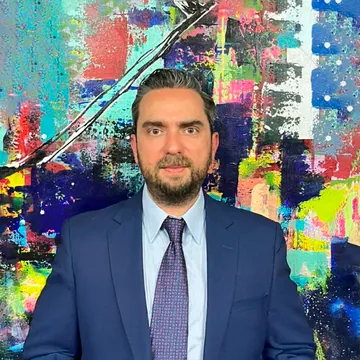
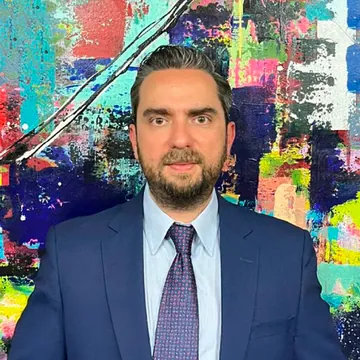
Show all four partners on the home page with evenly framed portraits
At the 16 October meeting the client asked for the four partners on the
home page, portraits "the same size", larger type in Socios, and no
personal data about the partners.

- Home Socios: the four partners from /team (including the founding
  partner in memoriam), in the /team order, four columns from lg and 2x2
  on phones. Role text is taken from /team. Names are 26-32px and
  roles 14-15px.
- Portraits: the four partner photos are re-cropped from the originals so
  the head takes the same share of the frame (about 41%) and the eyes sit
  at the same height (one third). Output is a 541px square, downscaled
  only and never enlarged, in natural colour. The 360/128 variants and the
  media manifest hashes are regenerated, the srcset descriptor is now
  541w, and the unused ss26/socio-*.webp copies are removed.
- /team cards, the profile's related-team list and the practice partner
  bar now have larger names and roles. The broken "text[NNpx]" classes
  in those spots are fixed.
- Personal data: the public team DTO always returns the firm's general
  email and switchboard number (none for the in memoriam partner) and
  never a LinkedIn URL. The vCard is built from that DTO. The Person
  JSON-LD gives the office as workLocation and no longer uses address,
  which reads as a home address.

Claude-Session: https://claude.ai/code/session_01JLi3psnBHv8p3iMLAhds96

diff --git a/client/src/components/home26/Sections26.tsx b/client/src/components/home26/Sections26.tsx
@@ -6,9 +6,6 @@ import fachada768 from "@assets/ss26/oficina/fachada-768.webp";
 import fachada1536 from "@assets/ss26/oficina/fachada-1536.webp";
 import salaJuntas768 from "@assets/ss26/oficina/sala-juntas-768.webp";
 import salaJuntas1536 from "@assets/ss26/oficina/sala-juntas-1536.webp";
-import socioSantosArce from "@assets/ss26/socio-enrique-hernan-santos-arce.webp";
-import socioSantosGuzman from "@assets/ss26/socio-enrique-hernan-santos-guzman.webp";
-import socioSaucedoMontemayor from "@assets/ss26/socio-mario-saucedo-montemayor.webp";
 import { isNamedOnTeamPage, fallbackToOriginalSrc, getTeamPhotoSrcSet } from "@/lib/teamPhotoSources";
 import { keepFirmName } from "@/lib/firmName";
 import { useOfficeLabel } from "@/lib/officeLabel";
@@ -63,19 +60,6 @@ const GAP_X = "xl:gap-x-[clamp(32px,6vw,96px)]";
    index.css). Sobre Azul Profundo se añade text-white. El manifiesto es la excepción: la
    única itálica del sitio. */
 const H2 = "ss-h2 mt-8";
-
-/* Retratos de socios, por slug de /team. El WebP de la portada (652 px) queda como src de
-   respaldo; el navegador elige del srcset de team_photos (360w y 652w, el de /team) según
-   el hueco: 112 px en teléfono, un tercio del contenedor desde sm (416 px a 1440, 424 máx.). */
-const socioPhotos: Record<string, string> = {
-  "enrique-santos-arce": socioSantosArce,
-  "enrique-santos-guzman": socioSantosGuzman,
-  "mario-saucedo-montemayor": socioSaucedoMontemayor,
-};
-const socioSrcSetProps = (slug: string) => {
-  const srcSet = getTeamPhotoSrcSet(`${import.meta.env.BASE_URL}team_photos/${slug}.png`);
-  return srcSet ? { srcSet, sizes: "(min-width: 1464px) 424px, (min-width: 640px) calc(30vw - 16px), 112px" } : {};
-};
 
 /* § 01 — La firma */
 export function Firma26({ lang }: { lang: Lang26 }) {
@@ -383,7 +367,18 @@ export function Socios26({ lang }: { lang: Lang26 }) {
   const liveHome = useCmsContent("home", home26);
   const t = liveHome[lang].socios;
   const { data: members = [], isError: teamError } = useQuery<TeamMember[]>({ queryKey: ["/api/team"] });
-  const people = teamError ? [] : members.filter(m => isNamedOnTeamPage(m) && (m.showOnHome ?? (m.isPartner && !/in memoriam/i.test(m.title)))).sort((a,b) => (a.order ?? 0) - (b.order ?? 0)).map(m => ({ name: m.name, photo: m.slug, image: m.imageUrl || "", role: lang === "es" ? m.titleEs : m.title }));
+  // Los cuatro socios de /team (incluido el socio fundador in memoriam), en el mismo orden
+  // ("order" del panel y luego nombre); showOnHome = false en el panel saca a alguien de la portada.
+  // El cargo, como en /team: titleEs en español, title en inglés, "(in memoriam)" sin partirse.
+  const people = teamError ? [] : members
+    .filter(m => m.isPartner && isNamedOnTeamPage(m) && m.showOnHome !== false)
+    .sort((a, b) => (a.order ?? 0) - (b.order ?? 0) || a.name.localeCompare(b.name))
+    .map(m => ({
+      name: m.name,
+      photo: m.slug,
+      image: m.imageUrl || "",
+      role: ((lang === "es" ? m.titleEs : m.title) || m.title || "").replace(/\((in)\s+(memoriam)\)/gi, "($1\u00a0$2)"),
+    }));
   return (
     <section
       id="socios"
@@ -410,36 +405,37 @@ export function Socios26({ lang }: { lang: Lang26 }) {
           </Reveal>
         </div>
 
-        {/* Teléfono: lista con retrato pequeño al lado del nombre; desde sm, tres columnas.
+        {/* Cuatro columnas desde lg y 2 × 2 en teléfono y tableta, como la rejilla de /team.
             La tarjeta es la de /team (Team.tsx renderPersonCard): enlace a la ficha del socio,
             el retrato se acerca al 1 % y el nombre se subraya al pasar el ratón o con el foco.
-            inline-link: fuera de la regla móvil de index.css que vuelve inline-flex todo <a>. */}
-        <ul className="mt-14 grid grid-cols-1 gap-x-6 gap-y-8 sm:grid-cols-3 sm:gap-y-12 lg:mt-16">
+            Los retratos de los cuatro están recortados con la misma escala de cabeza y los ojos a
+            la misma altura (attached_assets/team_photos). El nombre reserva dos líneas desde sm
+            para que los cargos queden alineados. inline-link: fuera de la regla móvil de index.css
+            que vuelve inline-flex todo <a>. */}
+        <ul className="mt-14 grid grid-cols-2 gap-x-4 gap-y-10 sm:gap-x-6 sm:gap-y-12 lg:mt-16 lg:grid-cols-4">
           {people.map((person, i) => (
             <Reveal as="li" key={person.name} delay={i * 0.08}>
               <Link href={`/team/${person.photo}`} className="inline-link group block">
-                <span className="grid grid-cols-[112px_1fr] items-end gap-x-5 sm:block">
-                  <span className="block overflow-hidden bg-ss-paper">
-                    {/* Fuente 652×652 (360 en teléfono) recortada a 4:5, en grises como todo
-                        retrato; alt vacío: el nombre ya es el texto del enlace */}
-                    <img
-                      src={person.image}
-                      {...(getTeamPhotoSrcSet(person.image) ? { srcSet: getTeamPhotoSrcSet(person.image), sizes: "(min-width: 640px) 30vw, 112px" } : {})}
-                      onError={fallbackToOriginalSrc}
-                      alt=""
-                      loading="lazy"
-                      decoding="async"
-                      width={652}
-                      height={652}
-                      className="ss-photo aspect-[4/5] h-auto w-full object-cover object-[50%_28%] transition-transform duration-700 [transition-timing-function:var(--ss-ease)] motion-safe:group-hover:scale-[1.01] motion-reduce:transform-none motion-reduce:transition-none"
-                    />
+                <span className="block overflow-hidden bg-ss-paper">
+                  {/* Fuente cuadrada recortada a 4:5 al centro; alt vacío: el nombre ya es el
+                      texto del enlace */}
+                  <img
+                    src={person.image}
+                    {...(getTeamPhotoSrcSet(person.image) ? { srcSet: getTeamPhotoSrcSet(person.image), sizes: "(min-width: 1464px) 330px, (min-width: 1024px) 23vw, 46vw" } : {})}
+                    onError={fallbackToOriginalSrc}
+                    alt=""
+                    loading="lazy"
+                    decoding="async"
+                    width={541}
+                    height={541}
+                    className="ss-photo aspect-[4/5] h-auto w-full object-cover object-center transition-transform duration-700 [transition-timing-function:var(--ss-ease)] motion-safe:group-hover:scale-[1.01] motion-reduce:transform-none motion-reduce:transition-none"
+                  />
+                </span>
+                <span className="mt-4 block sm:mt-5">
+                  <span className="ss-display block text-[21px] font-normal leading-[1.15] tracking-[-0.01em] text-ss-marino decoration-1 underline-offset-4 group-hover:underline group-focus-visible:underline min-h-[2.3em] sm:text-[clamp(26px,2.2vw,32px)]">
+                    {person.name}
                   </span>
-                  <span className="block sm:mt-5">
-                    <span className="ss-display block text-[clamp(24px,1.9vw,28px)] font-normal leading-[1.15] tracking-[-0.01em] text-ss-marino decoration-1 underline-offset-4 group-hover:underline group-focus-visible:underline">
-                      {person.name}
-                    </span>
-                    <span className="ss-label mt-3 block text-ss-medio">{person.role}</span>
-                  </span>
+                  <span className="ss-label mt-3 block text-[14px] text-ss-medio sm:text-[15px]">{person.role}</span>
                 </span>
               </Link>
             </Reveal>

diff --git a/client/src/pages/Team.tsx b/client/src/pages/Team.tsx
@@ -38,9 +38,11 @@ const CARD_PHOTO_SIZES = "(min-width: 1024px) 25vw, (min-width: 640px) 50vw, 112
 
 // Rejilla de tarjetas y letra del nombre, compartidas por la vista y su carga (misma altura).
 // Desde sm el nombre reserva dos líneas (interlineado 1.15 × 2): "Mario Saucedo Montemayor" pasa
-// a dos a 1024–1440 y su cargo quedaba más abajo que los de al lado.
+// a dos a 1024–1440 y su cargo quedaba más abajo que los de al lado. Nombre de 26–32 px y cargo de
+// 14–15 px: en la junta del 16-10-2026 el cliente vio chica la letra de Socios.
 const CARD_GRID = "grid grid-cols-1 gap-x-6 gap-y-8 sm:grid-cols-2 sm:gap-y-12 lg:grid-cols-4";
-const CARD_NAME = "ss-display block text-[clamp(24px,1.9vw,28px)] font-normal leading-[1.15] tracking-[-0.01em] sm:min-h-[2.3em]";
+const CARD_ROLE = "ss-label mt-3 block text-[14px] text-ss-medio sm:text-[15px]";
+const CARD_NAME = "ss-display block text-[clamp(26px,2.2vw,32px)] font-normal leading-[1.15] tracking-[-0.01em] sm:min-h-[2.3em]";
 
 export default function Team() {
   const { teamMosaic: equipoPhotos } = useCmsMedia();
@@ -239,7 +241,7 @@ export default function Team() {
   const getInitials = (name: string) =>
     name.split(' ').map(n => n[0]).join('').slice(0, 2).toUpperCase();
 
-  // Retratos: WebP con srcset (360w y 652w); si la variante falla, vuelve al original
+  // Retratos: WebP con srcset (360w y 541w); si la variante falla, vuelve al original
   const photoSrcSetProps = (member: TeamMember) => {
     const srcSet = getTeamPhotoSrcSet(member.imageUrl);
     return srcSet ? { srcSet, sizes: CARD_PHOTO_SIZES } : {};
@@ -257,7 +259,7 @@ export default function Team() {
     const role = language === "es" ? (member.titleEs || member.title || fallback) : (member.title || fallback);
     const text = role.replace(/\((in)\s+(memoriam)\)/gi, "($1\u00a0$2)");
     return (
-      <span className="ss-label mt-3 block text-ss-medio">
+      <span className={CARD_ROLE}>
         {englishFallback ? <bdi lang="en" dir="ltr">{text}</bdi> : text}
       </span>
     );
@@ -287,9 +289,9 @@ export default function Team() {
                 alt=""
                 loading={eager ? "eager" : "lazy"}
                 decoding="async"
-                width={652}
-                height={652}
-                className="ss-photo absolute inset-0 h-full w-full object-cover object-[50%_28%] transition-transform duration-700 [transition-timing-function:var(--ss-ease)] motion-safe:group-hover:scale-[1.01] motion-reduce:transform-none motion-reduce:transition-none"
+                width={541}
+                height={541}
+                className="ss-photo absolute inset-0 h-full w-full object-cover object-center transition-transform duration-700 [transition-timing-function:var(--ss-ease)] motion-safe:group-hover:scale-[1.01] motion-reduce:transform-none motion-reduce:transition-none"
                 onError={handlePhotoError}
               />
             )}
@@ -371,7 +373,7 @@ export default function Team() {
                     <div className={CARD_NAME}>
                       <Skeleton className="inline-block h-[0.8em] w-4/5 bg-ss-rule align-middle" />
                     </div>
-                    <div className="ss-label mt-3">
+                    <div className={CARD_ROLE}>
                       <Skeleton className="inline-block h-[0.8em] w-1/2 bg-ss-rule align-middle" />
                     </div>
                   </div>

diff --git a/shared/teamVisibility.ts b/shared/teamVisibility.ts
@@ -52,7 +52,8 @@ const PUBLIC_MEMBER_FIELDS = [
   "phone",
 ] as const satisfies readonly (keyof TeamMember)[];
 
-// Ficha (/api/team/:slug) y autores de una nota: además, biografía, LinkedIn y las secciones
+// Ficha (/api/team/:slug) y autores de una nota: además, biografía (LinkedIn va siempre vacío,
+// ver institutionalContact) y las secciones
 // de la ficha que se pintan si el registro las trae. Sin representativeMatters: los asuntos
 // no se publican (los de la importación eran de plantilla) y la ficha no los pinta sin dato.
 const PUBLIC_PROFILE_FIELDS = [
@@ -78,10 +79,27 @@ function pickFields<K extends keyof TeamMember>(member: Partial<TeamMember>, fie
   return out as Pick<TeamMember, K>;
 }
 
+// Datos personales (junta del 16-10-2026, Gabriel): de los socios solo sale lo institucional.
+// El correo y el teléfono públicos son siempre los generales de la firma (info@ y conmutador),
+// aunque el panel guarde un celular o un correo propio; el in memoriam, sin contacto. Sin
+// LinkedIn ni otras redes personales. Lo usan /api/team*, la vCard, el JSON-LD (que lee la
+// ficha pública) y el build estático.
+export const FIRM_PUBLIC_EMAIL = "info@santossaucedo.com";
+export const FIRM_PUBLIC_PHONE = "+52 81 8335 2086";
+
+function institutionalContact<T extends { email: string | null; phone: string | null; title: string }>(out: T): T {
+  const inMemoriam = /in memoriam/i.test(out.title ?? "");
+  out.email = out.email && !inMemoriam ? FIRM_PUBLIC_EMAIL : null;
+  out.phone = out.phone && !inMemoriam ? FIRM_PUBLIC_PHONE : null;
+  return out;
+}
+
 export function toPublicTeamMember(member: Partial<TeamMember>): PublicTeamMember {
-  return pickFields(member, PUBLIC_MEMBER_FIELDS);
+  return institutionalContact(pickFields(member, PUBLIC_MEMBER_FIELDS));
 }
 
 export function toPublicTeamProfile(member: Partial<TeamMember>): PublicTeamProfile {
-  return pickFields(member, PUBLIC_PROFILE_FIELDS);
+  const out = institutionalContact(pickFields(member, PUBLIC_PROFILE_FIELDS));
+  out.linkedinUrl = null;
+  return out;
 }

diff --git a/client/src/pages/TeamMemberDetail.tsx b/client/src/pages/TeamMemberDetail.tsx
@@ -184,11 +184,12 @@ function RelatedTeamMemberCard({
         </span>
         <div className="flex-1 min-w-0">
           {/* Nombre y cargo completos: si no caben, pasan a una segunda línea (antes "Mario Saucedo M…") */}
-          <p className="font-heading text-[19px] leading-[1.2] tracking-[-0.01em] text-ss-marino group-hover:underline group-hover:underline-offset-4 group-hover:decoration-1">
+          {/* 22 px (antes la clase "text[19px]" sin guion no aplicaba y quedaba en 16–18 px) */}
+          <p className="font-heading text-[22px] leading-[1.2] tracking-[-0.01em] text-ss-marino group-hover:underline group-hover:underline-offset-4 group-hover:decoration-1">
             {relatedMember.name}
           </p>
           {/* Sin traducción, el cargo en inglés va en <bdi>: aislado del árabe sin cambiar la alineación */}
-          <p className="ss-label text-ss-medio mt-1">
+          <p className="ss-label mt-1.5 text-[14px] text-ss-medio">
             <LocalizedRun value={displayTitle} />
           </p>
         </div>
@@ -1510,7 +1511,7 @@ export default function TeamMemberDetail() {
                     <>
                       <img
                         src={member.imageUrl}
-                        // WebP de 360/652 px en vez del PNG de 0,5–1 MB; si la variante no
+                        // WebP de 360/541 px en vez del PNG de 0,4–0,6 MB; si la variante no
                         // existe donde se sirven las fotos, onError vuelve al original (src)
                         {...(profilePhotoSrcSet ? { srcSet: profilePhotoSrcSet, sizes: PROFILE_PHOTO_SIZES } : {})}
                         // alt vacío: el nombre ya está en el h1 de al lado (antes se leía dos veces)

diff --git a/client/src/lib/teamPhotoSources.ts b/client/src/lib/teamPhotoSources.ts
@@ -11,7 +11,11 @@ export { CONFIRMED_PARTNER_SLUGS, isOfCounselMember, isNamedOnTeamPage } from "@
 // variante vive al lado de su original. Los originales
 // se conservan: son el src de respaldo si una variante no existe donde se sirven las fotos.
 
-// Socios con <slug>-652.webp y <slug>-360.webp (los PNG de 652 px pesan 0,5–1 MB)
+// Socios con <slug>-652.webp y <slug>-360.webp (el PNG pesa 0,4–0,6 MB). Los cuatro retratos se
+// recortaron de nuevo (22-10-2026) con la misma escala de cabeza y los ojos a la misma altura: el
+// cuadro mide 541 px (no se amplía más allá del original); el nombre "-652" se conserva porque lo
+// esperan /team_photos (server/routes.ts) y el manifiesto de medios.
+const PORTRAIT_WIDTH = 541;
 const PORTRAIT_SLUGS = new Set([
   "mario-saucedo-montemayor",
   "enrique-santos-guzman",
@@ -34,11 +38,11 @@ function parseTeamPhotoUrl(url?: string | null) {
   return match ? { dir: match[1], slug: match[2].toLowerCase() } : null;
 }
 
-/** srcset WebP (360w y 652w) de un retrato de socio, o undefined si no hay variantes. */
+/** srcset WebP (360w y 541w) de un retrato de socio, o undefined si no hay variantes. */
 export function getTeamPhotoSrcSet(url?: string | null): string | undefined {
   const parsed = parseTeamPhotoUrl(url);
   if (!parsed || !PORTRAIT_SLUGS.has(parsed.slug)) return undefined;
-  return `${parsed.dir}${parsed.slug}-360.webp 360w, ${parsed.dir}${parsed.slug}-652.webp 652w`;
+  return `${parsed.dir}${parsed.slug}-360.webp 360w, ${parsed.dir}${parsed.slug}-652.webp ${PORTRAIT_WIDTH}w`;
 }
 
 /** Miniatura WebP de 128 px para avatares; si no hay, la URL original. */

diff --git a/client/src/pages/PracticeGroupDetail.tsx b/client/src/pages/PracticeGroupDetail.tsx
@@ -584,13 +584,13 @@ export default function PracticeGroupDetail() {
                             <MemberThumb member={member} />
                             <span className="min-w-0">
                               <span
-                                className="block font-heading text-[20px] leading-[1.25] text-ss-marino group-hover:underline decoration-1 underline-offset-4"
+                                className="block font-heading text-[22px] leading-[1.25] text-ss-marino group-hover:underline decoration-1 underline-offset-4"
                                 data-testid={`text-team-member-name-${member.slug}`}
                               >
                                 {member.name}
                               </span>
                               <span
-                                className="ss-label block mt-1 text-ss-medio"
+                                className="ss-label block mt-1 text-[14px] text-ss-medio"
                                 data-testid={`text-team-member-role-${member.slug}`}
                                 lang={role.source ? "en" : undefined}
                               >

diff --git a/client/src/components/JsonLdSchema.tsx b/client/src/components/JsonLdSchema.tsx
@@ -161,14 +161,19 @@ export function PersonJsonLd({
     "knowsLanguage": languages || undefined,
     "knowsAbout": knowsAbout || undefined,
     "sameAs": sameAs.length > 0 ? sameAs : undefined,
-    // La de la oficina, igual que la de #organization en index.html
-    "address": {
-      "@type": "PostalAddress",
-      "streetAddress": "Río Tamazunchale 205 Norte, Col. del Valle",
-      "addressLocality": "San Pedro Garza García",
-      "addressRegion": "Nuevo León",
-      "postalCode": "66220",
-      "addressCountry": "MX"
+    // La oficina, igual que #organization en index.html, como lugar de trabajo: "address" de
+    // una Person se lee como domicilio particular, y ese dato no se publica
+    "workLocation": {
+      "@type": "Place",
+      "name": "Santos & Saucedo",
+      "address": {
+        "@type": "PostalAddress",
+        "streetAddress": "Río Tamazunchale 205 Norte, Col. del Valle",
+        "addressLocality": "San Pedro Garza García",
+        "addressRegion": "Nuevo León",
+        "postalCode": "66220",
+        "addressCountry": "MX"
+      }
     },
     "memberOf": ORGANIZATION
   };

diff --git a/server/routes.ts b/server/routes.ts
@@ -167,9 +167,10 @@ function generateVCard(member: any, language: "es" | "en" = "es"): string {
     `FN:${safeName}`,
     `N:${lastName};${firstName};;;`,
     `ORG:Santos & Saucedo, S.C.`,
-    `TITLE:${title}`,
-    `ROLE:${role}`,
   ];
+  // Sin "null" en la tarjeta cuando falta el cargo o el rol
+  if (title) lines.push(`TITLE:${title}`);
+  if (role) lines.push(`ROLE:${role}`);
   
   if (member.email) {
     lines.push(`EMAIL;TYPE=WORK:${member.email}`);
@@ -691,7 +692,9 @@ export async function registerRoutes(
         return res.status(404).json({ error: "Team member not found" });
       }
       
-      const vcard = generateVCard(member, language);
+      // Con el DTO público: correo y teléfono generales de la firma, sin LinkedIn ni datos
+      // personales que el registro pudiera traer (shared/teamVisibility)
+      const vcard = generateVCard(toPublicTeamProfile(member), language);
       const filename = member.slug.replace(/[^a-z0-9-]/g, '') + '.vcf';
       
       res.setHeader('Content-Type', 'text/vcard; charset=utf-8');
